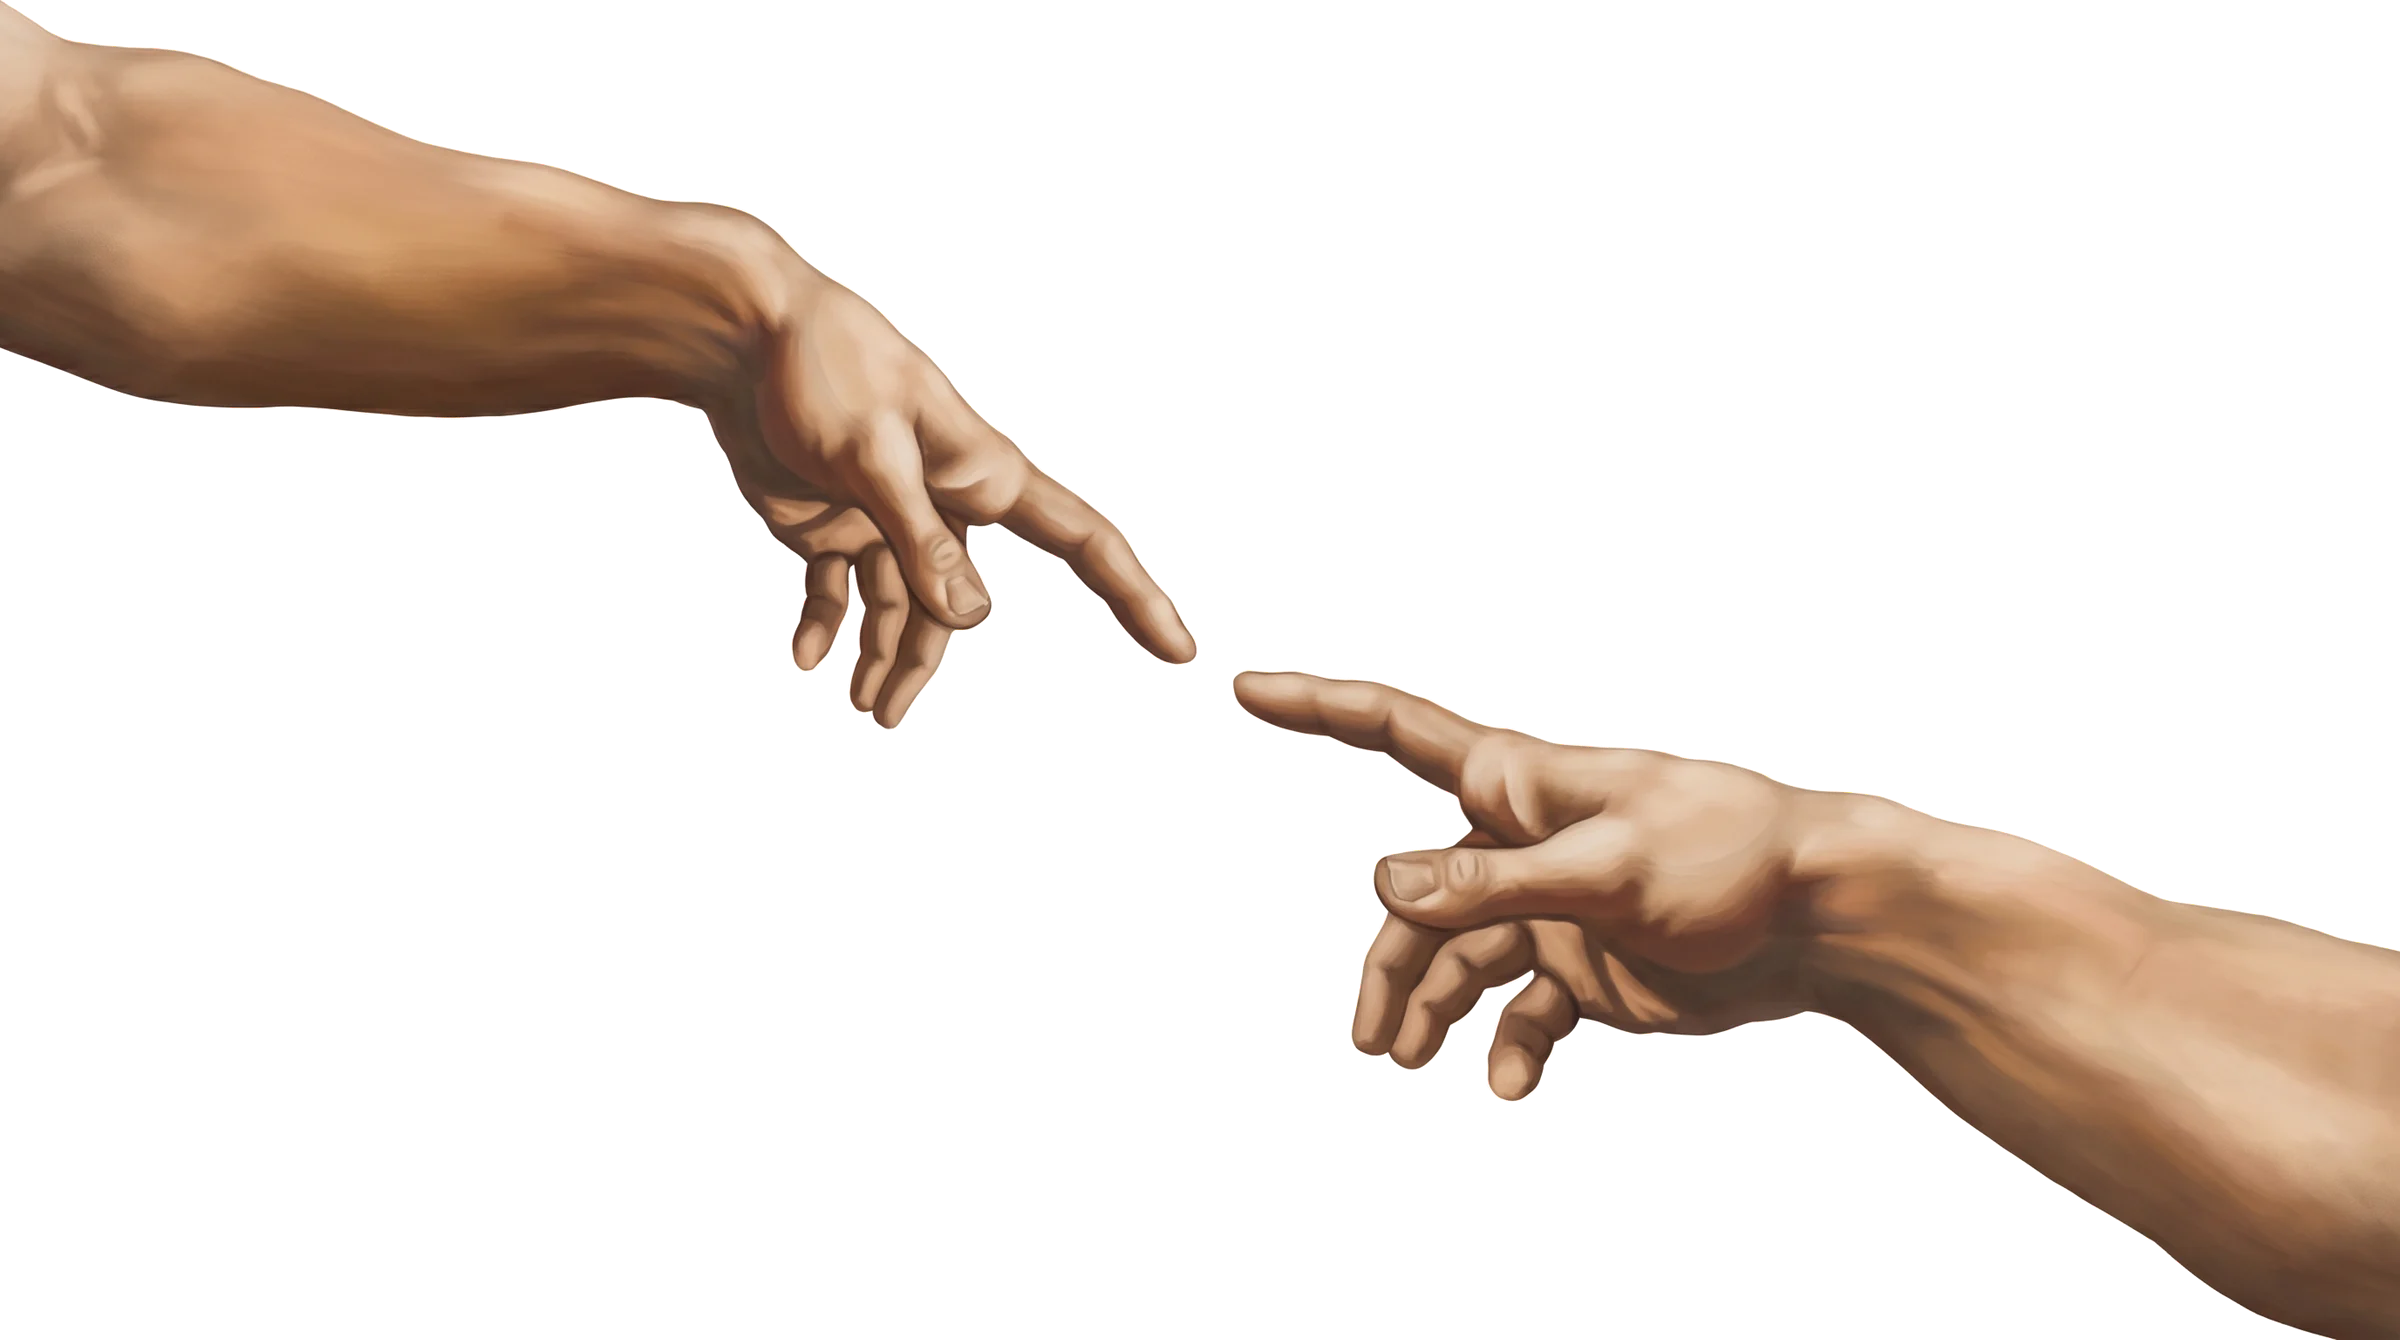
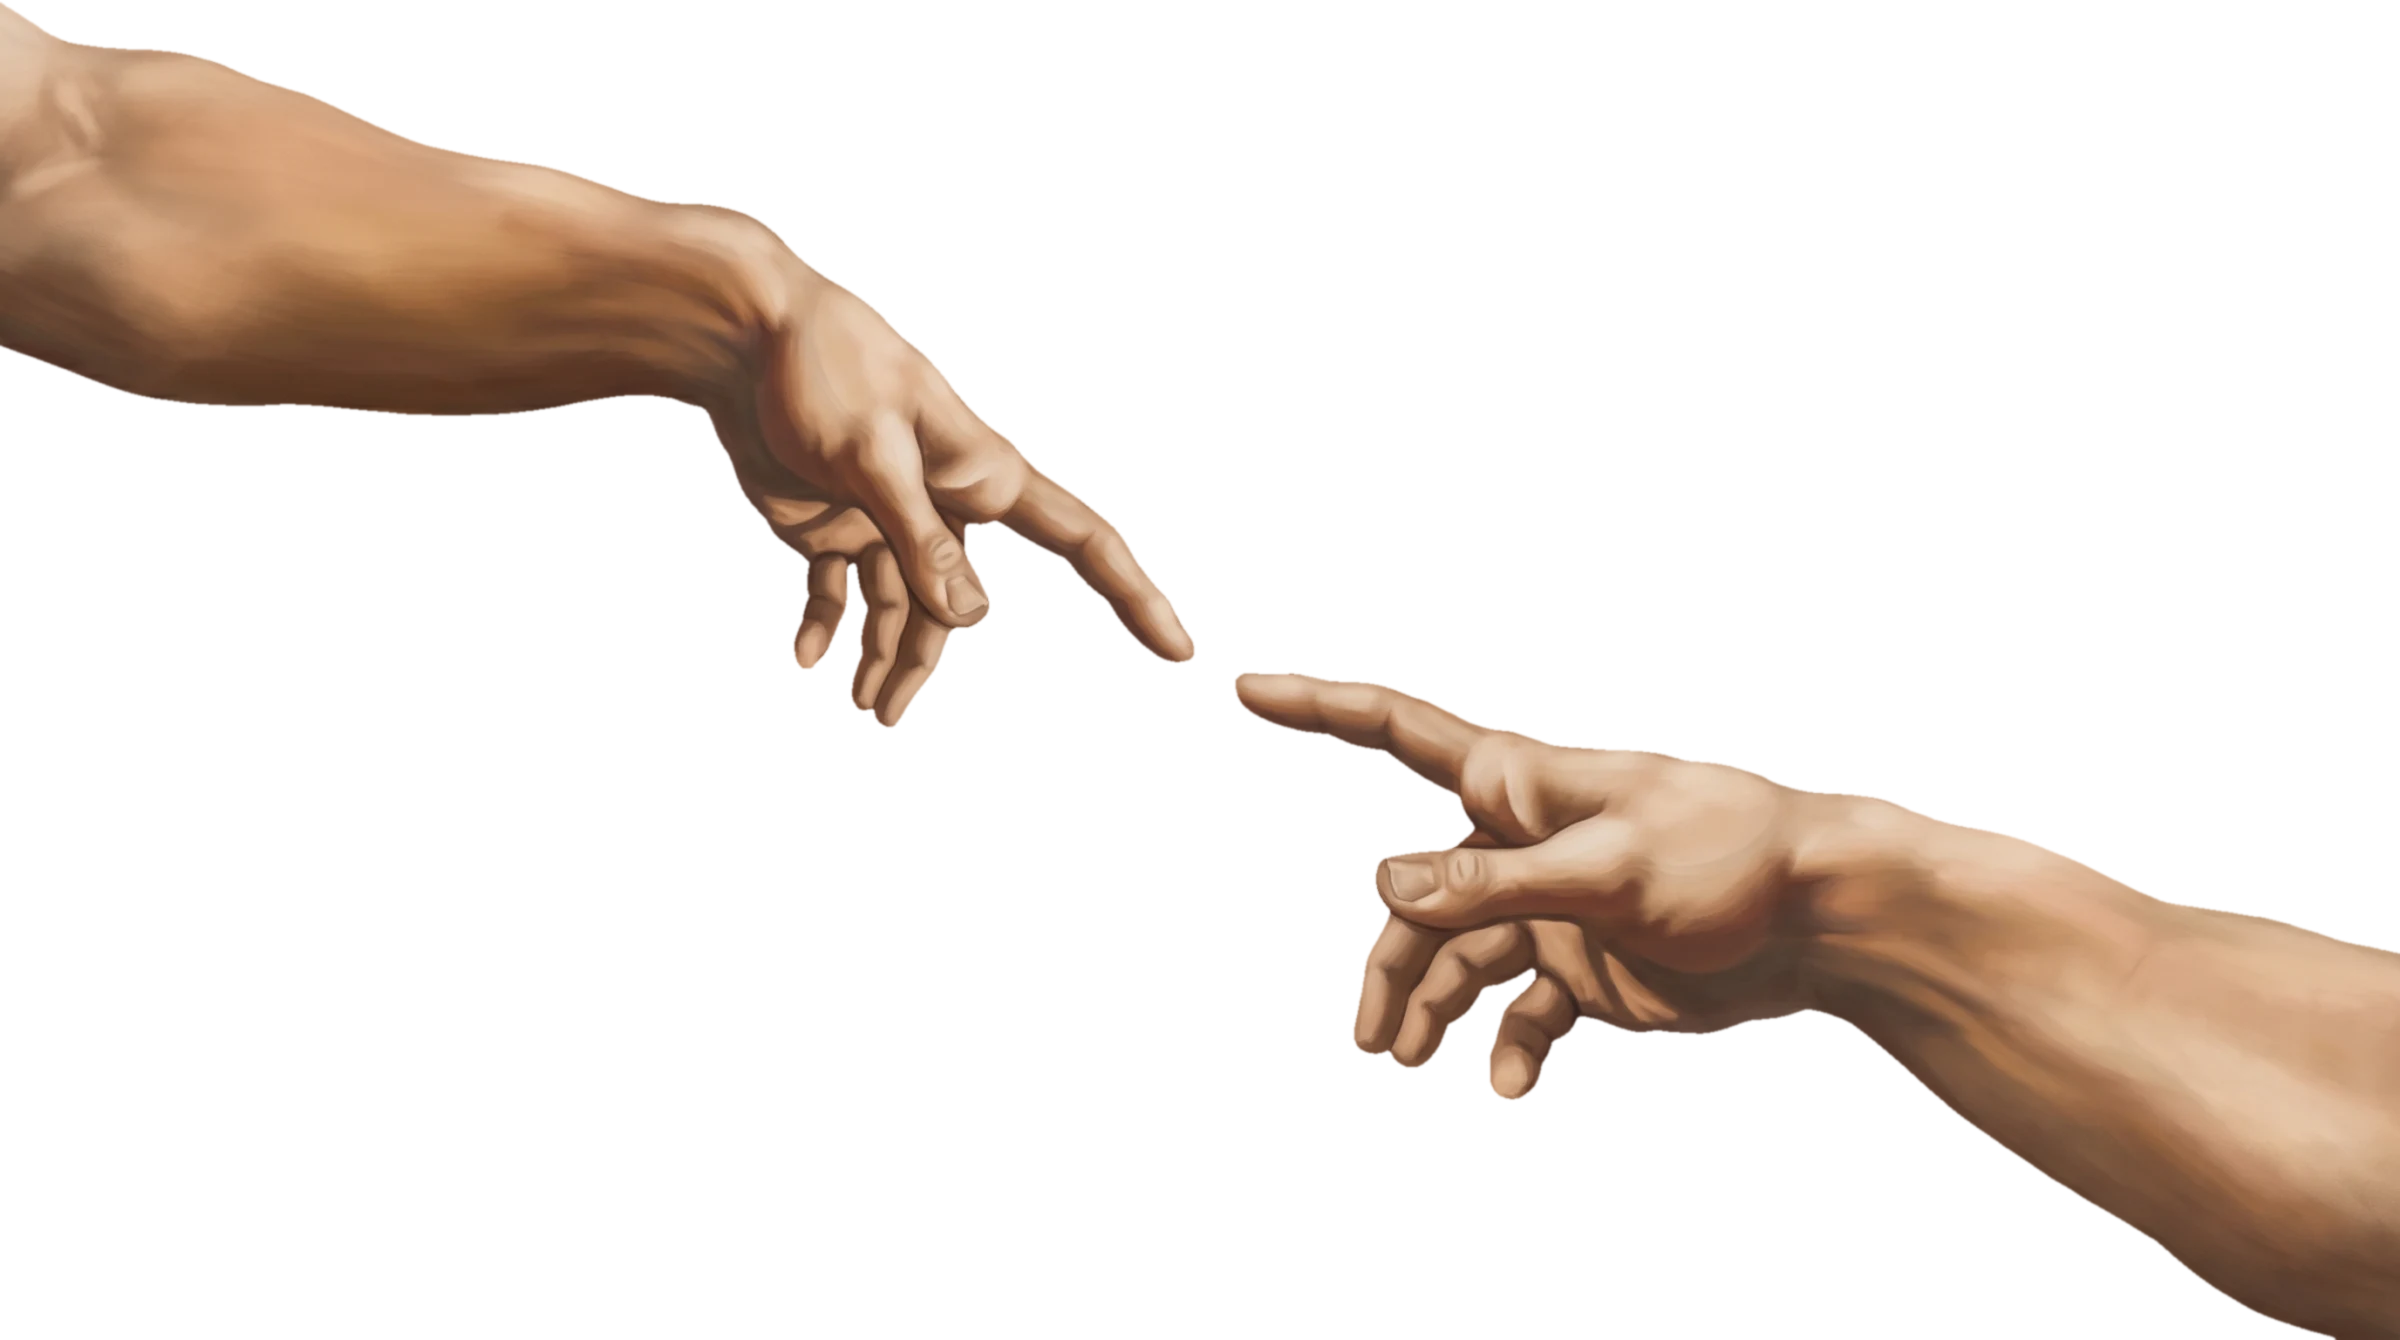
Vitrine: clean white-background removal, restore previous framing
- Hands re-cut with a hard mask eroded past the anti-aliased white rim, soft edge
  and edge colours bled from the skin: no white pixels left, finger gaps transparent
- Size and position back to the previous framing (1.15 x screen diagonal, centred)

diff --git a/src/styles/vitrine.css b/src/styles/vitrine.css
@@ -17,7 +17,7 @@
    The image's own arm axis already slopes var(--vitrine-axis); the arm ends fade out. */
 .vitrine-art {
   --angle: var(--vitrine-angle);
-  position: absolute; left: 50%; top: var(--vitrine-center); display: block; max-width: none; height: auto; width: var(--vitrine-length);
+  position: absolute; left: 50%; top: 50%; display: block; max-width: none; height: auto; width: var(--vitrine-length);
   opacity: var(--vitrine-art); filter: var(--vitrine-glow);
   /* the gap between the fingertips (50.6% across the image) lands on the centre of the screen */
   transform: translate(-50%, -50%) translateZ(var(--vitrine-depth)) rotate(calc(var(--angle) - var(--vitrine-axis))) translateX(-0.6%);
@@ -25,7 +25,7 @@
   mask-image: linear-gradient(90deg, transparent, #000 8%, #000 92%, transparent);
 }
 @supports (rotate: atan2(1px, 1px)) { .vitrine-art { --angle: atan2(100vh, 100vw); } }
-@supports (width: hypot(1px, 1px)) { .vitrine-art { width: calc(hypot(100vw, 100vh) * var(--vitrine-scale)); } }
+@supports (width: hypot(1px, 1px)) { .vitrine-art { width: calc(hypot(100vw, 100vh) * 1.15); } }
 
 /* The pane of glass: a dark inner edge (the case is deeper than the painting) and one moving reflection */
 .vitrine-glass {

diff --git a/src/styles/tokens.css b/src/styles/tokens.css
@@ -16,9 +16,7 @@
   --vitrine-art: 0.92;          /* hands opacity */
   --vitrine-angle: 32deg;       /* fallback for the screen diagonal (atan2 in vitrine.css) */
   --vitrine-axis: 21.7deg;      /* the image already slopes down this much (measured) */
-  --vitrine-length: 150vmax;   /* fallback arm length (hypot in vitrine.css) */
-  --vitrine-scale: 0.92;        /* image width / screen diagonal: both hands whole, arms still reach the corners */
-  --vitrine-center: calc(50% + var(--nav-h) / 2 - 4vh); /* middle of the space between nav and the first sheet */
+  --vitrine-length: 190vmax;    /* fallback arm length (hypot in vitrine.css) */
   --vitrine-glow: none;         /* a drop-shadow here gets clipped by the 3D layer in Chrome: leave none */
   --vitrine-depth: -90px;       /* how far behind the glass */
   --vitrine-tilt: 2.5deg;       /* max mouse tilt */

diff --git a/CLAUDE.md b/CLAUDE.md
@@ -14,7 +14,7 @@ Bilingual: English (default) and French. Every route lives under `/en/` or `/fr/
 - `src/pages/index.astro` — redirect; `404.astro` — bilingual 404; `[lang]/index.astro` — CV home: hero over the painting, then the CV on one glass sheet; Projects index = `components/Ledger.astro`, Apps/Hobbies indexes = `components/Showcase.astro` (screenshots in `public/home/`); `[lang]/hobbies.astro` — Hobbies index; `[lang]/hobbies/coaching/` — Kalista Mid coaching site + demo checkout (prices/accounts `src/data/coaching.ts`, strings `src/scripts/coaching/i18n.ts`, styles `coaching*.css`, `--coach-*` tokens, slide crops `public/hobbies/coaching/`, demo orders in localStorage `cv:coaching:orders`, no card data stored); `[lang]/apps/` — Apps index + SQL Arena game (`apps/sql/`, see `claude_add.md` §3) + Typing Arena (`apps/typing/`, §3b); arena music `src/scripts/music/` (§3c)
 - `scripts/cv-pdf.mjs` — after build, prints the CV page (`print.css` + print tokens) to `dist/elliot-fesquet-cv-{en,fr}.pdf` via installed Chrome. Keep each PDF to 1 A4 page.
 - `src/pages/[lang]/projects/index.astro` + `[slug].astro` — projects; horizontal journey (problem → approach → architecture → results; `scripts/projects/journey.ts`, `project-journey.css`); each `## ` section of the body is rendered as its own panel (split in `[slug].astro`); frontmatter `architecture` = Mermaid flowchart with `logos:<name>` icons (@iconify-json/logos, rendered by `scripts/projects/mermaid.ts`), `dashboard` charts/shots → `components/projects/Dashboard.astro`, images in `public/projects/<slug>/`
-- `components/Vitrine.astro` + `vitrine.css` — two reaching hands after the Creation of Adam (`public/vitrine/hands.webp`, Elliot's own image with the white removed; source in gitignored `.taste-skill/source/`), turned onto the screen diagonal (`atan2(100vh, 100vw)` minus the image's own 21.7° slope) behind every page, set back behind glass, parallax + pointer tilt (approved JS exception, off under reduced motion). Content goes on `.sheet` glass panels. No other stock/archive pictures.
+- `components/Vitrine.astro` + `vitrine.css` — two reaching hands after the Creation of Adam (`public/vitrine/hands.webp`, Elliot's own image with the white removed; source + `unwhite.py` (OpenCV) in gitignored `.taste-skill/`), turned onto the screen diagonal (`atan2(100vh, 100vw)` minus the image's own 21.7° slope) behind every page, set back behind glass, parallax + pointer tilt (approved JS exception, off under reduced motion). Content goes on `.sheet` glass panels. No other stock/archive pictures.
 - `src/data/cv.yaml` — single source of truth for CV (en/fr per field); `src/data/cv.ts` loads + types it
 - `src/content/projects/{en,fr}/<slug>.md` — one markdown file per project per language
 - `public/` — copied as-is under `/cv/` (dbt docs, static files); `.github/workflows/deploy.yml` — build + deploy
